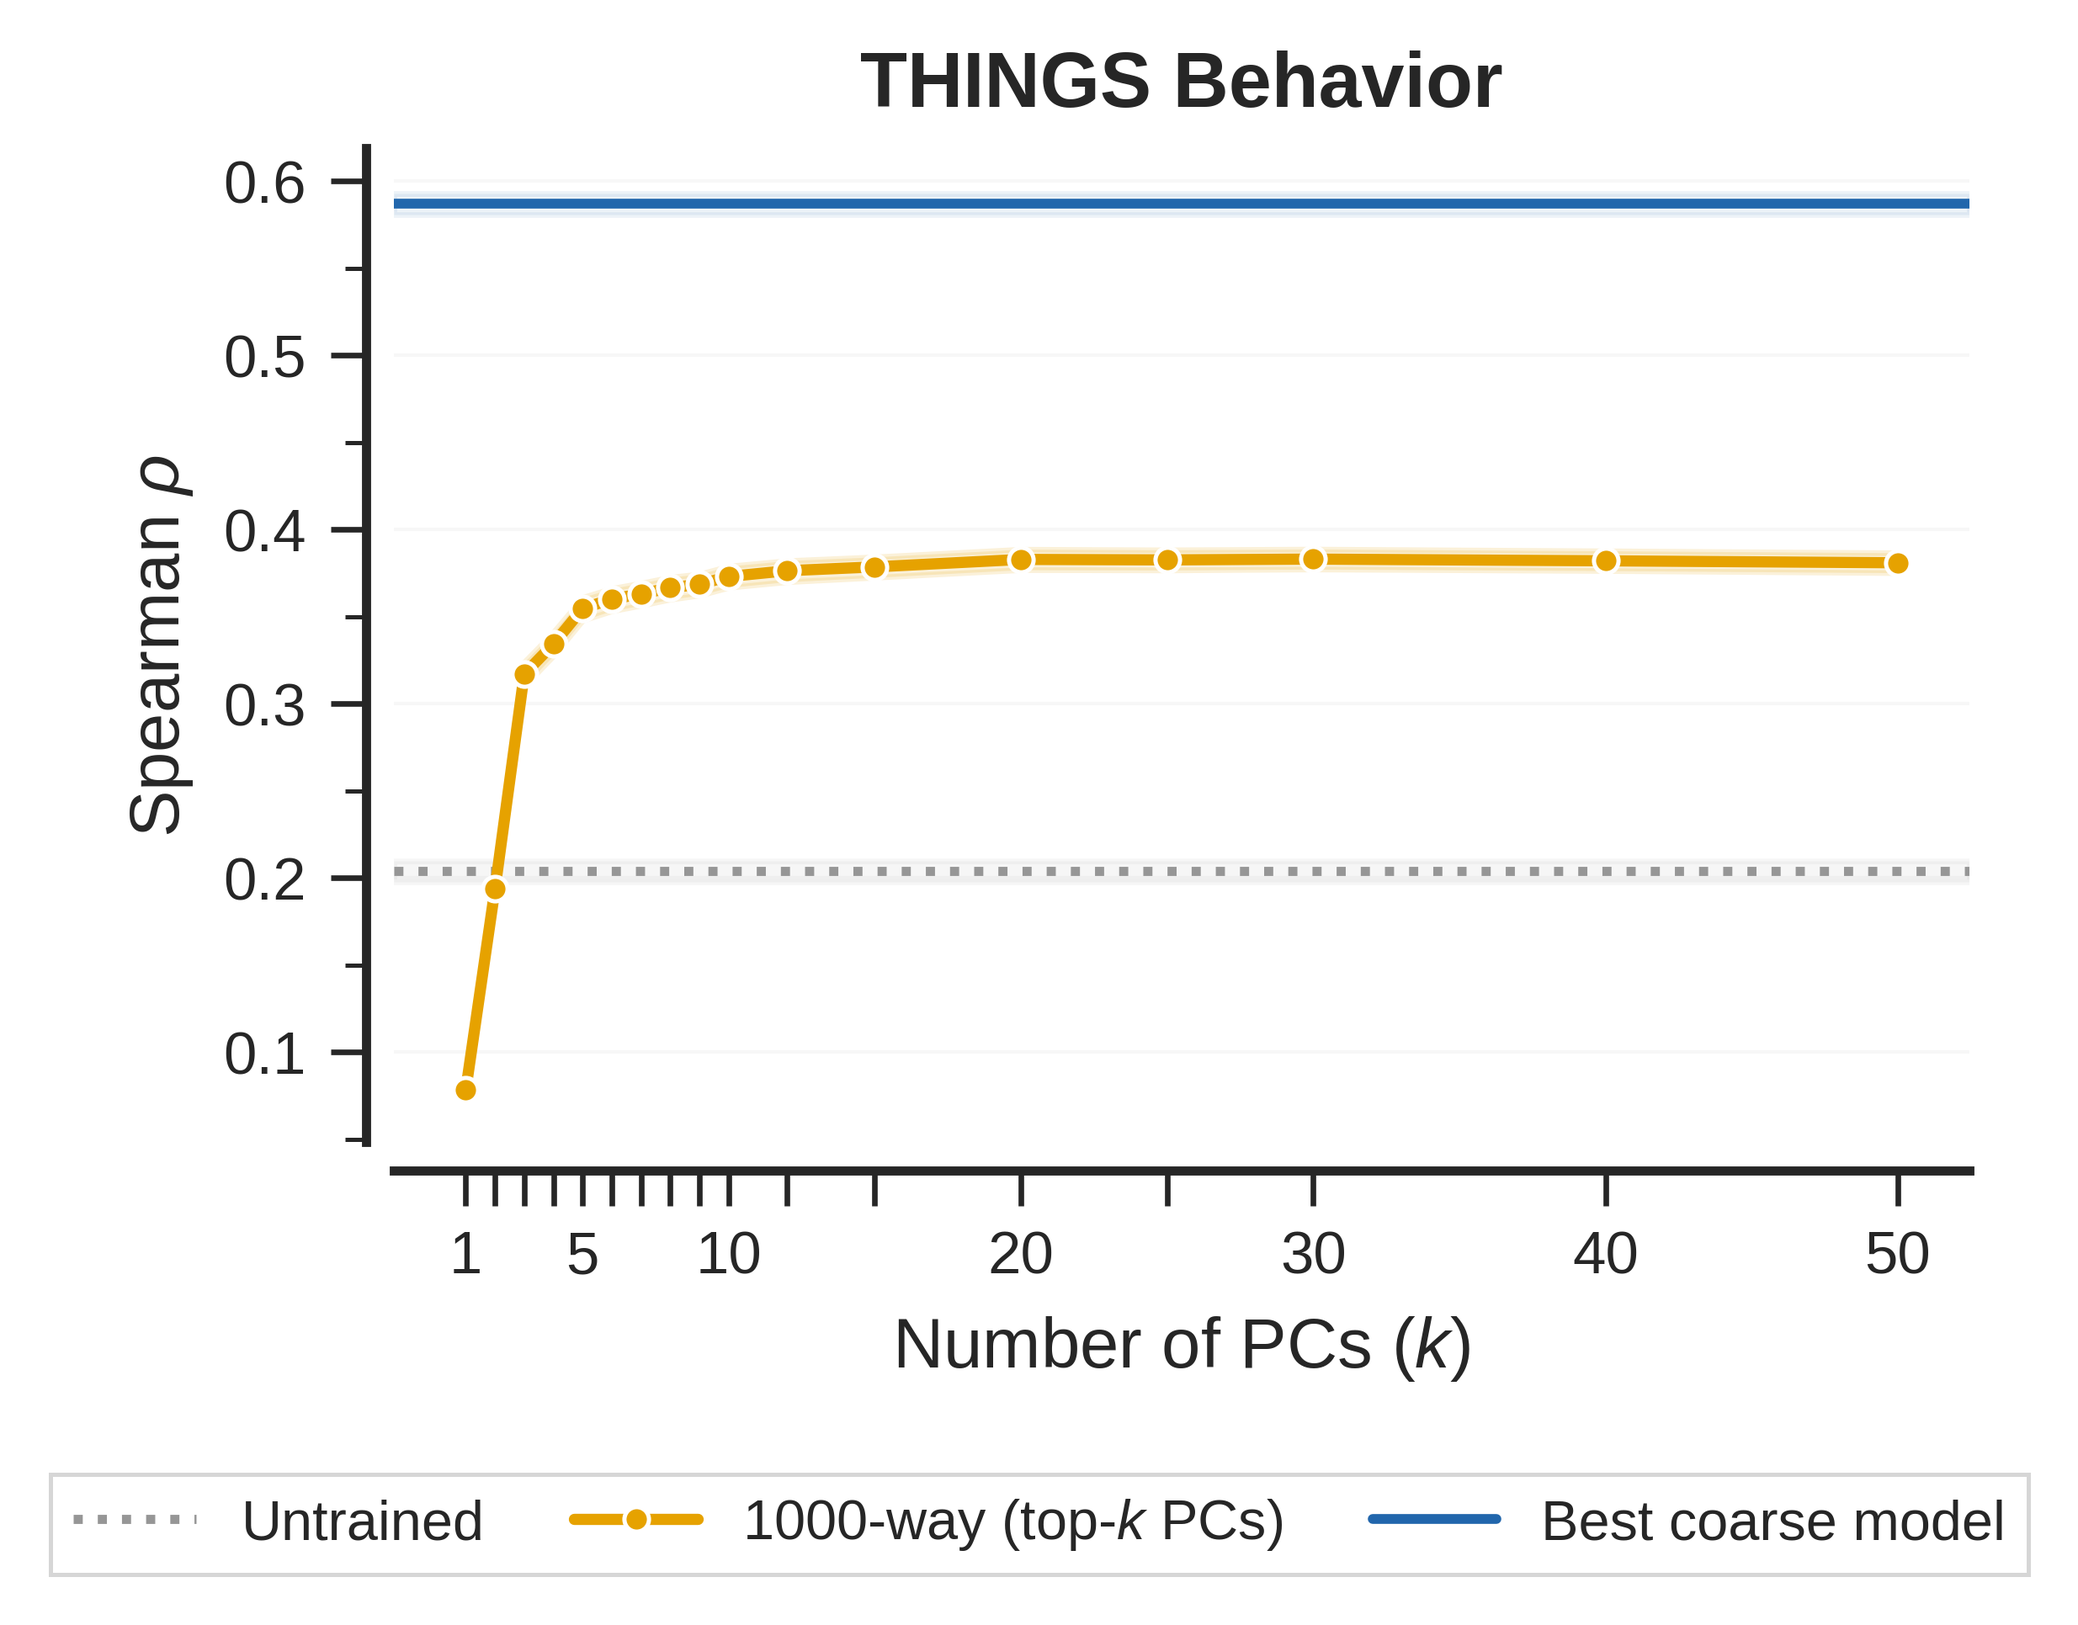
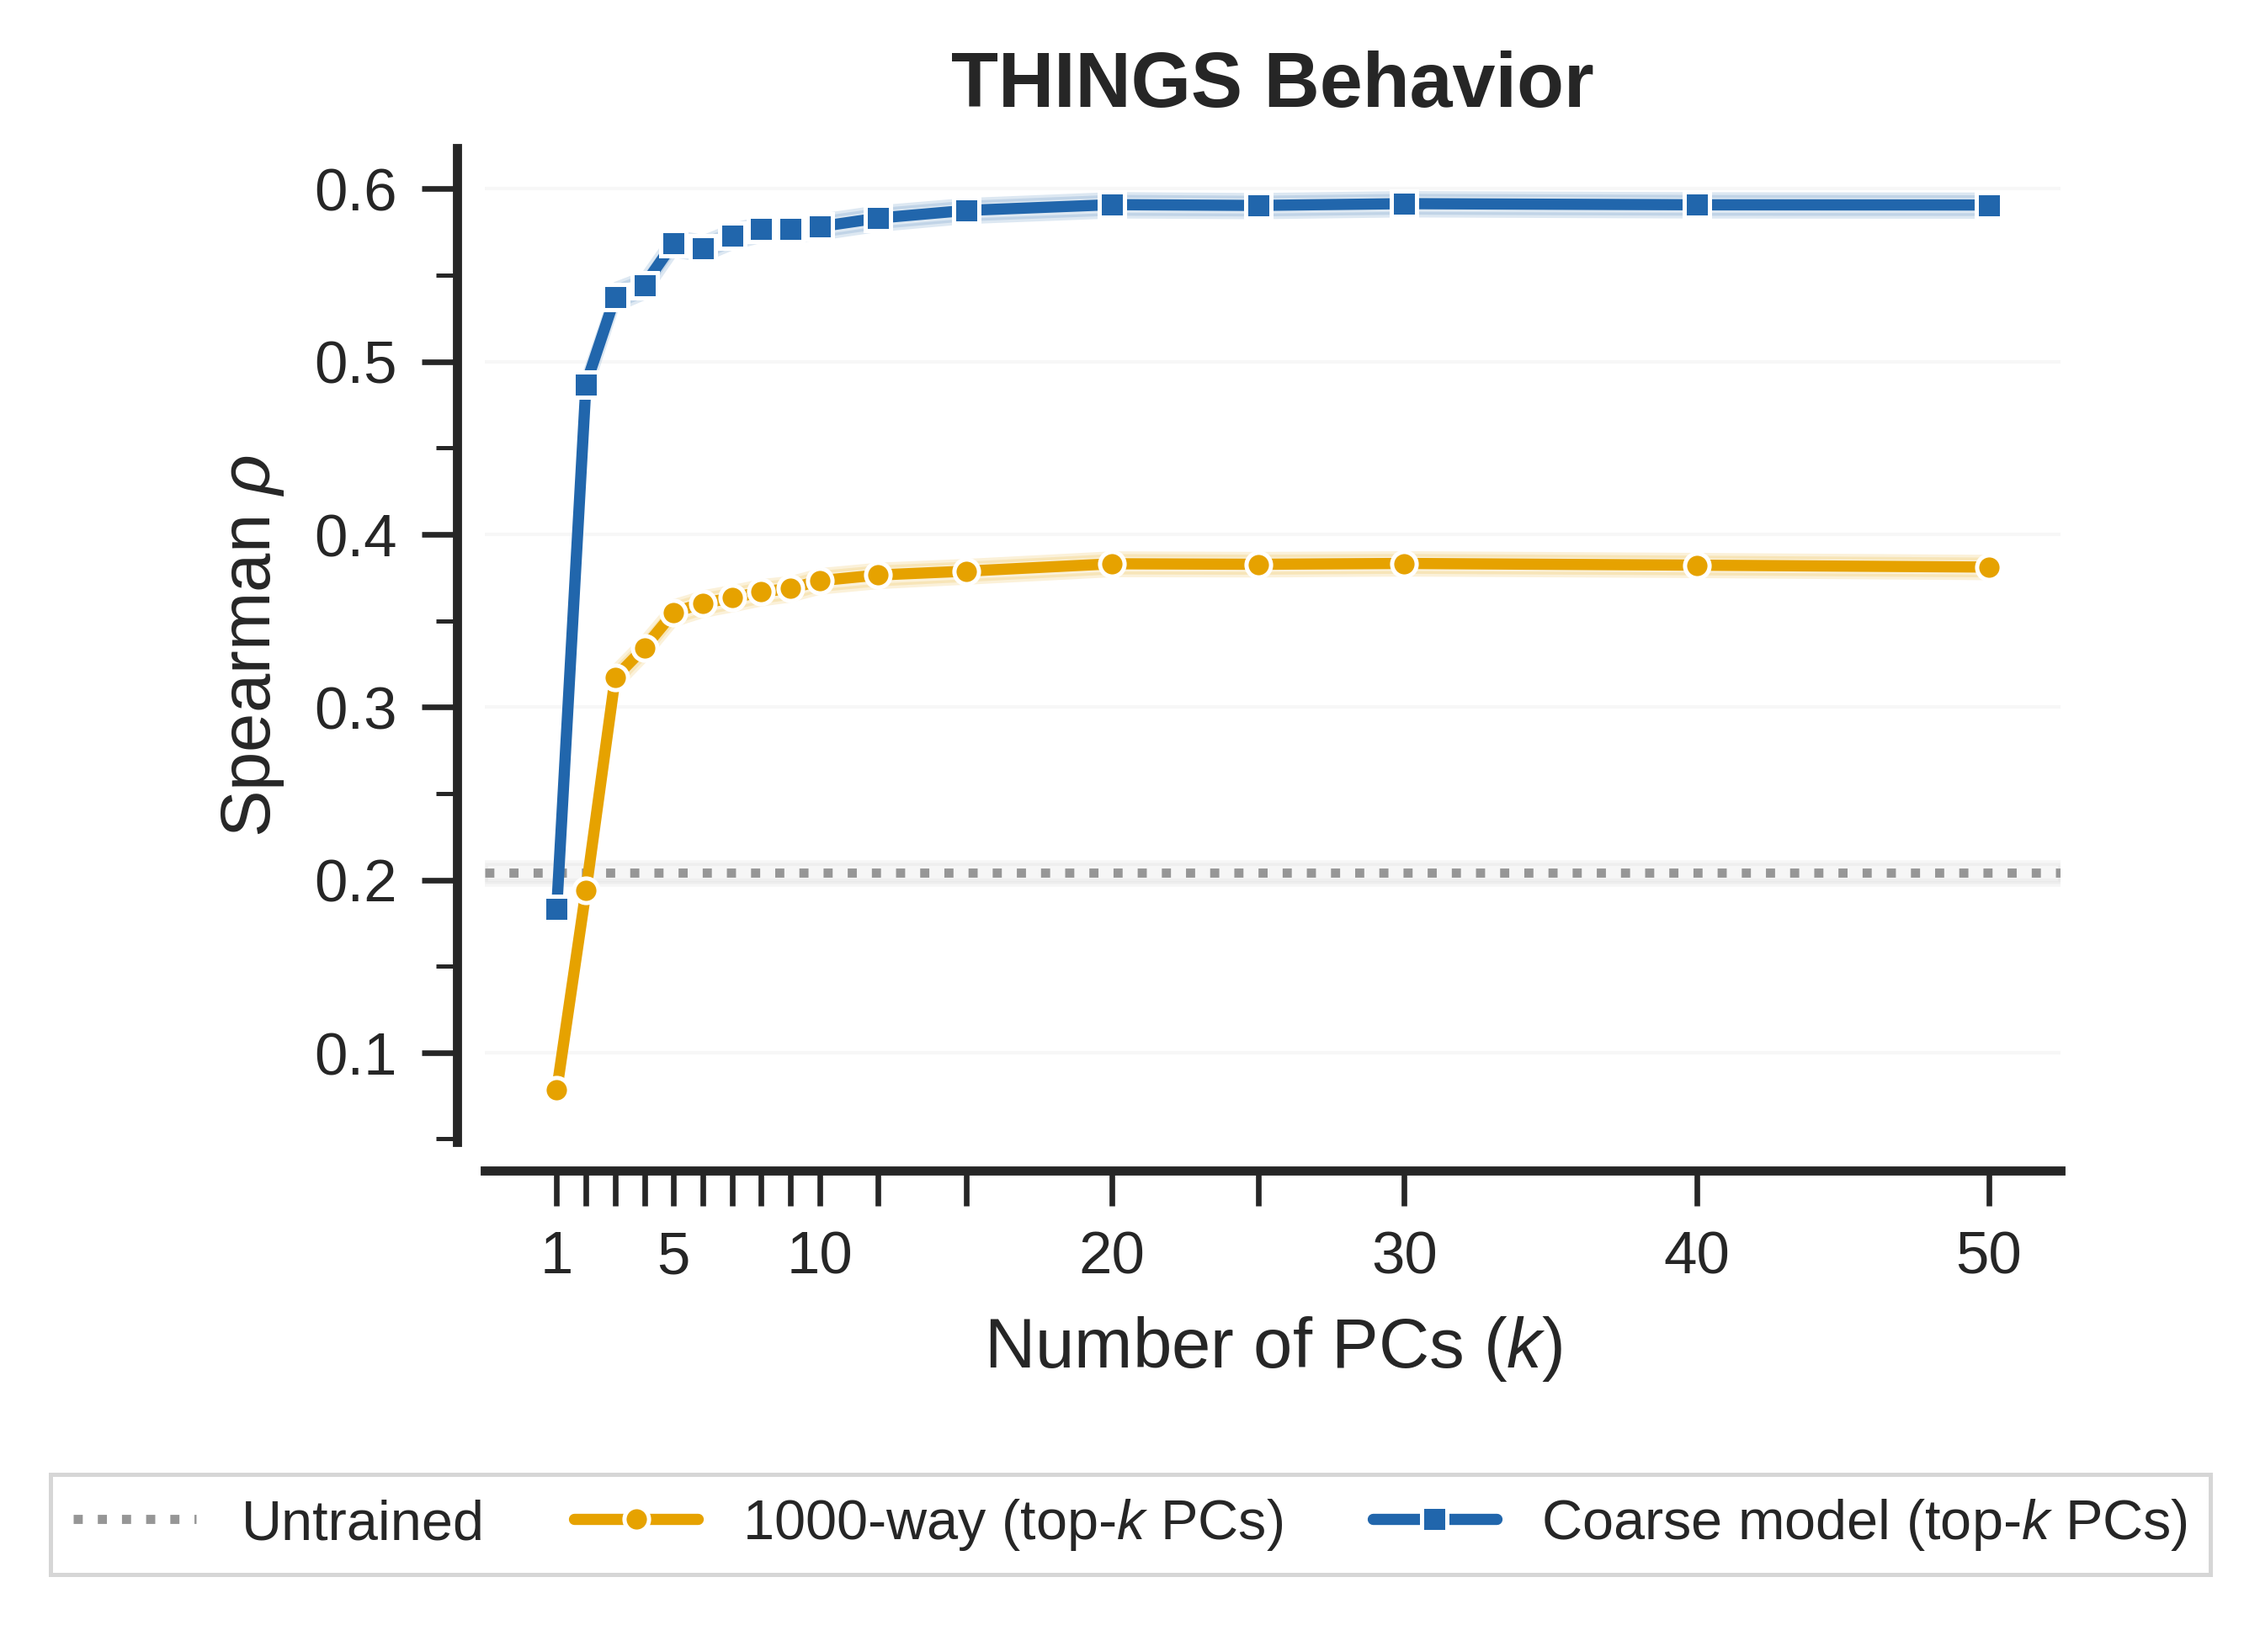
Refactor reconstruction analysis: add dual-curve plotting
Add plot_dual_curves and plot_dual_figure to overlay 1000-way and
region-specific coarse model reconstruction curves side-by-side.
Replaces flat coarse baseline with actual per-pca_k reconstruction
scores. Refine styling: thinner spines, subtler gridlines, shared
_format_panel and _finish_figure helpers.

diff --git a/experiments/reconstruction_analysis/plot_utils.py b/experiments/reconstruction_analysis/plot_utils.py
@@ -16,14 +16,16 @@ COMPARE_METHOD = "spearman"
 
 # ── Style ────────────────────────────────────────────────────────────────────
 
-CURVE_COLOR = "#e6a200"       # golden amber — reconstruction curve
+FINE_COLOR = "#e6a200"        # golden amber — 1000-way reconstruction curve
 TRAINED_COLOR = "#d45500"     # burnt orange-red — 1000-way baseline
-COARSE_COLOR = "#2166ac"      # blue — coarse / 2-class models
+COARSE_COLOR = "#2166ac"      # blue — coarse model reconstruction curve
 UNTRAINED_COLOR = "#969696"   # neutral grey
+# Keep old name as alias for backward compat (used by plot_case_study.py)
+CURVE_COLOR = FINE_COLOR
 
-SPINE_WIDTH = 1.3
-TICK_MAJOR_LEN = 5
-TICK_MINOR_LEN = 3
+SPINE_WIDTH = 1.0
+TICK_MAJOR_LEN = 4
+TICK_MINOR_LEN = 2.5
 
 RC = {
     "font.family": "sans-serif",
@@ -103,14 +105,18 @@ def _region_filter(region):
     return "", []
 
 
-def query_reconstruction_curve(neural_dataset, region=None):
+def query_reconstruction_curve(neural_dataset, region=None,
+                               cfg_id=1000, checkpoint_dir=None):
     """Per-(pca_k, seed, subject) best-layer scores for reconstruction runs."""
     conn = sqlite3.connect(DB_PATH)
     q = """SELECT run_id, pca_k, seed, subject_idx, layer, score FROM results
-           WHERE reconstruct_from_pcs = 1 AND cfg_id = 1000
+           WHERE reconstruct_from_pcs = 1 AND cfg_id = ?
              AND analysis = 'rsa' AND compare_method = 'spearman'
              AND neural_dataset = ?"""
-    params = [neural_dataset]
+    params = [cfg_id, neural_dataset]
+    if checkpoint_dir is not None:
+        q += " AND checkpoint_dir = ?"
+        params.append(checkpoint_dir)
     rfrag, rparams = _region_filter(region)
     df = pd.read_sql(q + rfrag, conn, params=params + rparams)
     conn.close()
@@ -158,7 +164,7 @@ def _draw_baseline(ax, baseline, color, linestyle, linewidth, label, zorder=1):
     if np.isnan(mean):
         return
     if not np.isnan(ci_lo):
-        ax.axhspan(ci_lo, ci_hi, color=color, alpha=0.08, zorder=0)
+        ax.axhspan(ci_lo, ci_hi, color=color, alpha=0.12, zorder=0)
     ax.axhline(mean, color=color, linestyle=linestyle,
                linewidth=linewidth, label=label, zorder=zorder)
 
@@ -166,35 +172,62 @@ def _draw_baseline(ax, baseline, color, linestyle, linewidth, label, zorder=1):
 def plot_panel(ax, curve_df, comparison_baseline,
                untrained_baseline, title, comparison_label="Best coarse model",
                show_ylabel=True):
-    """Plot one reconstruction curve panel with baselines."""
+    """Plot one reconstruction curve panel with a flat comparison baseline."""
     k, mean = curve_df["pca_k"].values, curve_df["mean"].values
     ci_low, ci_high = curve_df["ci_low"].values, curve_df["ci_high"].values
 
     _draw_baseline(ax, untrained_baseline, UNTRAINED_COLOR, ":", 1.3, "Untrained")
 
-    ax.fill_between(k, ci_low, ci_high, color=CURVE_COLOR, alpha=0.15, zorder=2)
-    ax.plot(k, mean, "-o", color=CURVE_COLOR, markersize=3.5, linewidth=1.6,
+    ax.fill_between(k, ci_low, ci_high, color=FINE_COLOR, alpha=0.18, zorder=2)
+    ax.plot(k, mean, "-o", color=FINE_COLOR, markersize=4, linewidth=1.6,
             markeredgecolor="white", markeredgewidth=0.6,
             label="1000-way (top-$k$ PCs)", zorder=3)
 
     _draw_baseline(ax, comparison_baseline, COARSE_COLOR, "-", 1.4, comparison_label)
 
-    # Formatting
-    ax.set_xlabel("Number of PCs ($k$)", fontsize=10, labelpad=4)
+    _format_panel(ax, k, title, show_ylabel)
+
+
+def plot_dual_curves(ax, fine_df, coarse_df, untrained_baseline, title,
+                     coarse_label="Coarse model", show_ylabel=True):
+    """Plot two reconstruction curves (1000-way and coarse) with untrained baseline."""
+    _draw_baseline(ax, untrained_baseline, UNTRAINED_COLOR, ":", 1.3, "Untrained")
+
+    # 1000-way curve
+    k = fine_df["pca_k"].values
+    ax.fill_between(k, fine_df["ci_low"].values, fine_df["ci_high"].values,
+                    color=FINE_COLOR, alpha=0.18, zorder=2)
+    ax.plot(k, fine_df["mean"].values, "-o", color=FINE_COLOR, markersize=4,
+            linewidth=1.6, markeredgecolor="white", markeredgewidth=0.6,
+            label="1000-way (top-$k$ PCs)", zorder=3)
+
+    # Coarse curve
+    k_c = coarse_df["pca_k"].values
+    ax.fill_between(k_c, coarse_df["ci_low"].values, coarse_df["ci_high"].values,
+                    color=COARSE_COLOR, alpha=0.18, zorder=2)
+    ax.plot(k_c, coarse_df["mean"].values, "-s", color=COARSE_COLOR, markersize=4,
+            linewidth=1.6, markeredgecolor="white", markeredgewidth=0.6,
+            label=f"{coarse_label} (top-$k$ PCs)", zorder=3)
+
+    _format_panel(ax, k, title, show_ylabel)
+
+
+def _format_panel(ax, k, title, show_ylabel):
+    """Shared axis formatting for reconstruction panels."""
+    ax.set_xlabel("Number of PCs ($k$)", fontsize=9, labelpad=4)
     if show_ylabel:
-        ax.set_ylabel("Spearman $\\rho$", fontsize=10, labelpad=4)
+        ax.set_ylabel(r"Spearman $\rho$", fontsize=9, labelpad=4)
     ax.set_title(title, fontsize=11, fontweight="bold", pad=6)
     ax.set_xticks(k)
-    # Label a sparse subset to avoid crowding on non-uniform axis
     labeled = {1, 5, 10, 20, 30, 40, 50} | {int(k[0]), int(k[-1])}
     ax.set_xticklabels(
         [str(int(v)) if int(v) in labeled else "" for v in k], fontsize=8,
     )
-    ax.tick_params(axis="both", which="major", labelsize=8.5,
+    ax.tick_params(axis="both", which="major", labelsize=8,
                    length=TICK_MAJOR_LEN, width=0.8, direction="out")
     ax.yaxis.set_minor_locator(plt.matplotlib.ticker.AutoMinorLocator(2))
     ax.tick_params(axis="y", which="minor", length=TICK_MINOR_LEN, width=0.6, direction="out")
-    ax.yaxis.grid(True, linestyle="-", alpha=0.15, linewidth=0.5, zorder=0)
+    ax.yaxis.grid(True, which="major", color="#EBEBEB", linewidth=0.4, zorder=0)
     ax.set_axisbelow(True)
     sns.despine(ax=ax, right=True, top=True, offset=4)
     ax.spines["bottom"].set_linewidth(SPINE_WIDTH)
@@ -205,7 +238,7 @@ def plot_panel(ax, curve_df, comparison_baseline,
 
 def plot_figure(neural_dataset, query_comparison_fn, comparison_label,
                 filename_prefix, **query_kwargs):
-    """Produce a multi-panel figure for one neural dataset.
+    """Produce a multi-panel figure with a single curve + flat comparison baseline.
 
     query_comparison_fn(neural_dataset, region, **query_kwargs) → (mean, ci_lo, ci_hi)
     """
@@ -233,6 +266,51 @@ def plot_figure(neural_dataset, query_comparison_fn, comparison_label,
             title=label, comparison_label=comparison_label, show_ylabel=(i == 0),
         )
 
+    _finish_figure(fig, axes, filename_prefix, neural_dataset)
+
+
+def plot_dual_figure(neural_dataset, coarse_config, filename_prefix,
+                     coarse_label="Coarse model"):
+    """Produce a multi-panel figure with two reconstruction curves per panel.
+
+    coarse_config: dict mapping region -> (cfg_id, checkpoint_dir)
+    """
+    layout = DATASET_LAYOUTS[neural_dataset]
+    regions, figsize = layout["regions"], layout["figsize"]
+    sns.set_theme(style="ticks", context="paper", font_scale=1.1, rc=RC)
+
+    fig, axes = plt.subplots(1, len(regions), figsize=figsize, squeeze=False)
+    axes = axes.flatten()
+
+    for i, (region, label) in enumerate(regions):
+        # 1000-way reconstruction curve
+        fine_df = query_reconstruction_curve(neural_dataset, region)
+        fine_agg = aggregate_curve(fine_df)
+
+        # Coarse reconstruction curve (region-specific model)
+        cfg_id, checkpoint_dir = coarse_config[region]
+        coarse_df = query_reconstruction_curve(
+            neural_dataset, region, cfg_id=cfg_id, checkpoint_dir=checkpoint_dir,
+        )
+        coarse_agg = aggregate_curve(coarse_df)
+
+        if fine_agg.empty and coarse_agg.empty:
+            axes[i].text(0.5, 0.5, "No data", ha="center", va="center",
+                         transform=axes[i].transAxes, fontsize=12, color="#888")
+            axes[i].set_title(label, fontsize=11, fontweight="bold")
+            continue
+
+        plot_dual_curves(
+            axes[i], fine_agg, coarse_agg,
+            untrained_baseline=query_untrained_baseline(neural_dataset, region),
+            title=label, coarse_label=coarse_label, show_ylabel=(i == 0),
+        )
+
+    _finish_figure(fig, axes, filename_prefix, neural_dataset)
+
+
+def _finish_figure(fig, axes, filename_prefix, neural_dataset):
+    """Shared legend + save logic."""
     handles, labels = axes[0].get_legend_handles_labels()
     if handles:
         leg = fig.legend(handles, labels, loc="lower center", ncol=4, fontsize=8,

diff --git a/experiments/reconstruction_analysis/plot.py b/experiments/reconstruction_analysis/plot.py
@@ -1,49 +1,40 @@
 """
 Reconstruction Analysis Plotter
 ================================
-Plots RSA score vs. pca_k for the 1000-way model with reconstruct_from_pcs=True,
-overlaid with baselines: 1000-way (all dims), best coarse model, untrained.
+Plots RSA score vs. pca_k for both the 1000-way and coarse models, showing how
+brain alignment grows as more PCs are included in the reconstruction.
+
+Each panel uses the region-specific coarse model (e.g., CLIP-PCA for ventral
+visual stream, AlexNet-PCA for early visual stream). Untrained baseline shown
+as a dotted horizontal line.
 
 Produces one figure per neural dataset (NSD 1x2, TVSD 1x3, THINGS 1x1).
 """
 
-import sqlite3
-
-import pandas as pd
-
 from experiments.reconstruction_analysis.plot_utils import (
-    DB_PATH, COMPARE_METHOD, DATASET_LAYOUTS,
-    get_bootstrap_ci, _region_filter, plot_figure,
+    DATASET_LAYOUTS, plot_dual_figure,
 )
 
-
-def query_coarse_baseline(neural_dataset, region=None):
-    """Best coarse-grained model's grand-mean score across all label sources."""
-    rfrag, rparams = _region_filter(region)
-    conn = sqlite3.connect(DB_PATH)
-    df = pd.read_sql(
-        "SELECT run_id, checkpoint_dir, cfg_id, seed, subject_idx, layer, score "
-        "FROM results WHERE reconstruct_from_pcs = 0 AND pca_labels = 1"
-        " AND cfg_id IN (2, 4, 8, 16, 32, 64) AND analysis = 'rsa'"
-        f" AND compare_method = 'spearman' AND neural_dataset = ?{rfrag}",
-        conn, params=[neural_dataset] + rparams,
-    )
-    conn.close()
-
-    if df.empty:
-        return float("nan"), float("nan"), float("nan")
-
-    # Best layer per (checkpoint_dir, cfg_id, seed, subject_idx)
-    best = df.loc[df.groupby(["checkpoint_dir", "cfg_id", "seed", "subject_idx"])["score"].idxmax()]
-    # Find best (checkpoint_dir, cfg_id) combo by grand mean
-    grand = best.groupby(["checkpoint_dir", "cfg_id"])["score"].mean()
-    best_combo = grand.idxmax()
-    best_runs = best[(best["checkpoint_dir"] == best_combo[0]) & (best["cfg_id"] == best_combo[1])]
-
-    _, ci_low, ci_high = get_bootstrap_ci(best_runs["run_id"].tolist())
-    return best_runs["score"].mean(), ci_low, ci_high
+# Per-region coarse model configs: region -> (cfg_id, checkpoint_dir)
+# Must match the models used in run_reconstruction.py COARSE_CONFIG.
+COARSE_CONFIG = {
+    "nsd": {
+        "early visual stream": (64, "/data/ymehta3/alexnet_pca"),
+        "ventral visual stream": (16, "/data/ymehta3/clip_pca"),
+    },
+    "tvsd": {
+        "V1": (64, "/data/ymehta3/alexnet_pca"),
+        "V4": (64, "/data/ymehta3/alexnet_pca"),
+        "IT": (64, "/data/ymehta3/alexnet_pca"),
+    },
+    "things-behavior": {
+        "N/A": (64, "/data/ymehta3/vit_pca"),
+    },
+}
 
 
 if __name__ == "__main__":
     for ds in DATASET_LAYOUTS:
-        plot_figure(ds, query_coarse_baseline, "Best coarse model", "reconstruction")
+        plot_dual_figure(
+            ds, COARSE_CONFIG[ds], "reconstruction", coarse_label="Coarse model",
+        )
